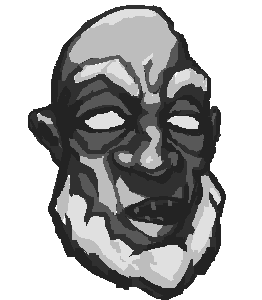
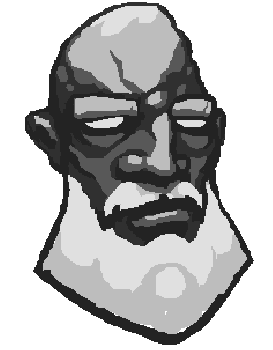
more ant portraits

diff --git a/core/src/com/lovely/games/DialogContainer.java b/core/src/com/lovely/games/DialogContainer.java
@@ -173,10 +173,10 @@ public class DialogContainer {
         portraits.put("ant-worried", assetManager.get("portraits/portrait-ant-worried.png"));
 //        portraits.put("ant-listening", assetManager.get("portraits/portrait-pro.png"));
         this.leftPortrait = new Sprite(portraits.get("pro-talk"));
-        this.rightPortrait = new Sprite(portraits.get("pro-listening"));
+        this.rightPortrait = new Sprite(portraits.get("ant-talk"));
         this.rightPortrait.flip(true, false);
         leftPortrait.setScale(0.6f);
-        rightPortrait.setScale(0.7f);
+        rightPortrait.setScale(0.6f);
         lastMood = "pro-listening";
         lastAntMood = "pro-listening";
     }
@@ -185,7 +185,7 @@ public class DialogContainer {
         Vector2 dialogPos = offset.cpy().add(64, 16);
         DialogElement dialogLine = conversation.getCurrentDialog();
         actors = new HashSet<>(conversation.getActors());
-        float portraitHeight = 160;
+        float portraitHeight = 170;
         boolean isLeft = dialogLine.getOwner().equals("pro");
         if (isLeft) {
             if (dialogLine.getMood() != null) {
@@ -213,7 +213,7 @@ public class DialogContainer {
             leftPortrait.draw(batch);
         }
         if (actors.contains("ant")) {
-            rightPortrait.setPosition(dialogPos.x + 312, dialogPos.y + 4 - 50);
+            rightPortrait.setPosition(dialogPos.x + 242, dialogPos.y + 4 - 110);
             rightPortrait.draw(batch);
         }
 
